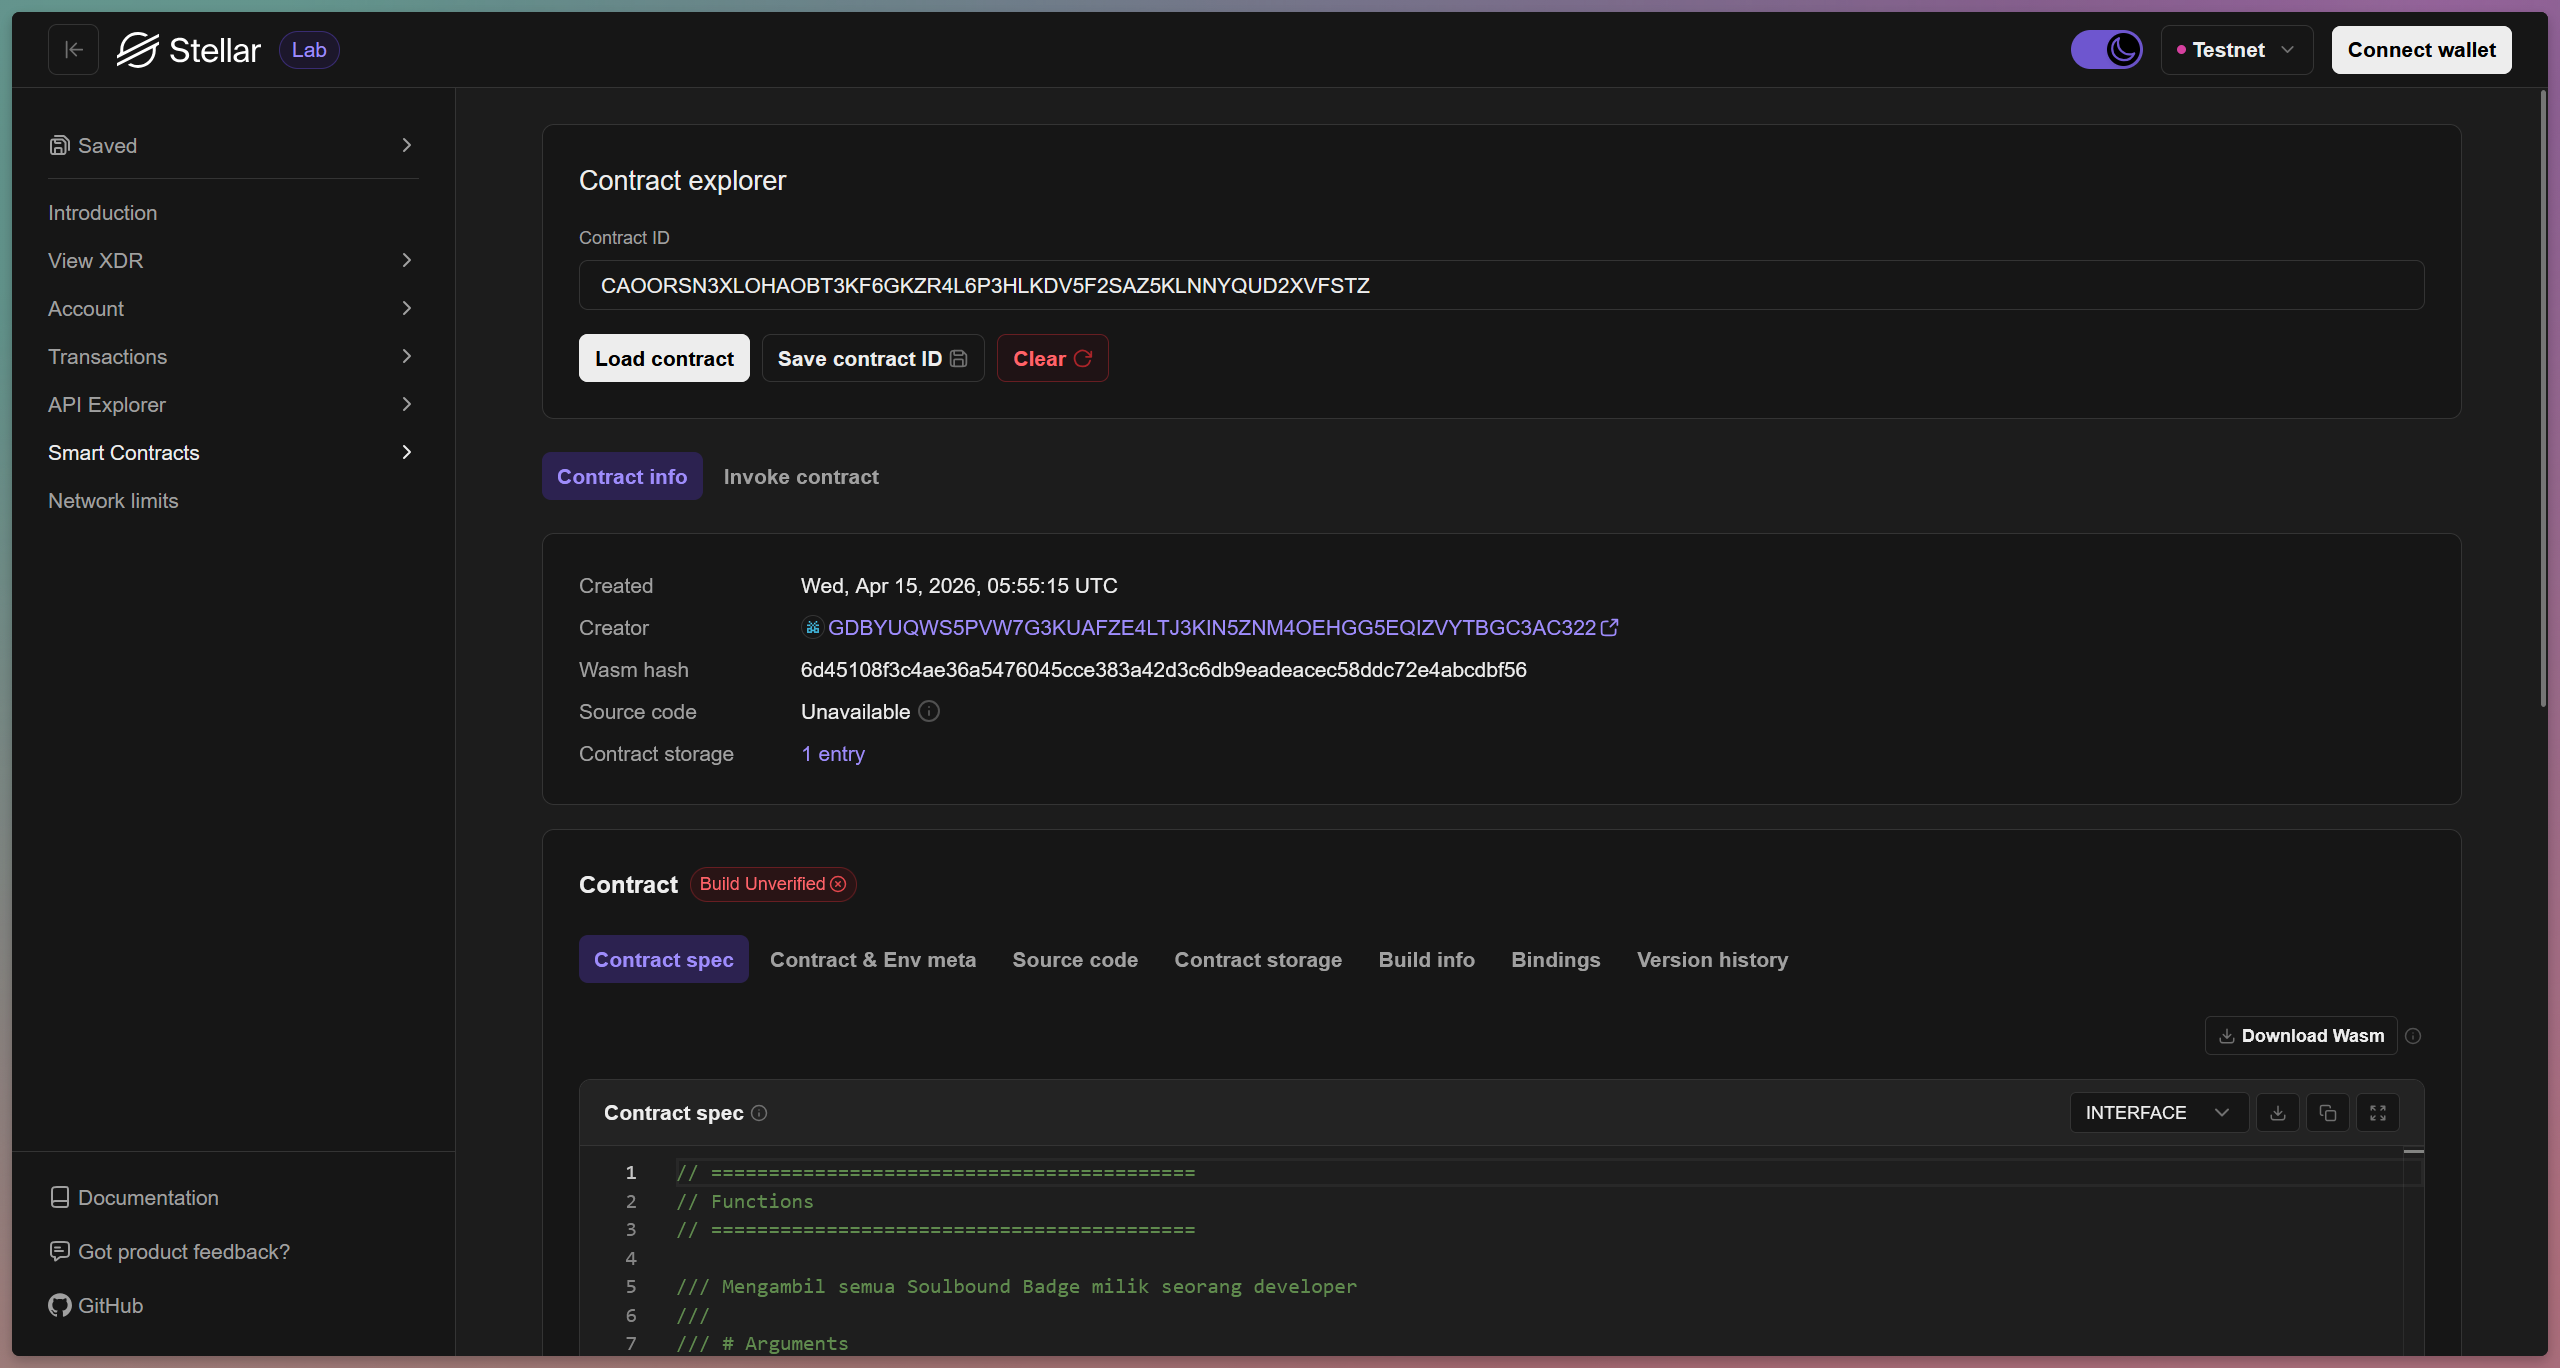
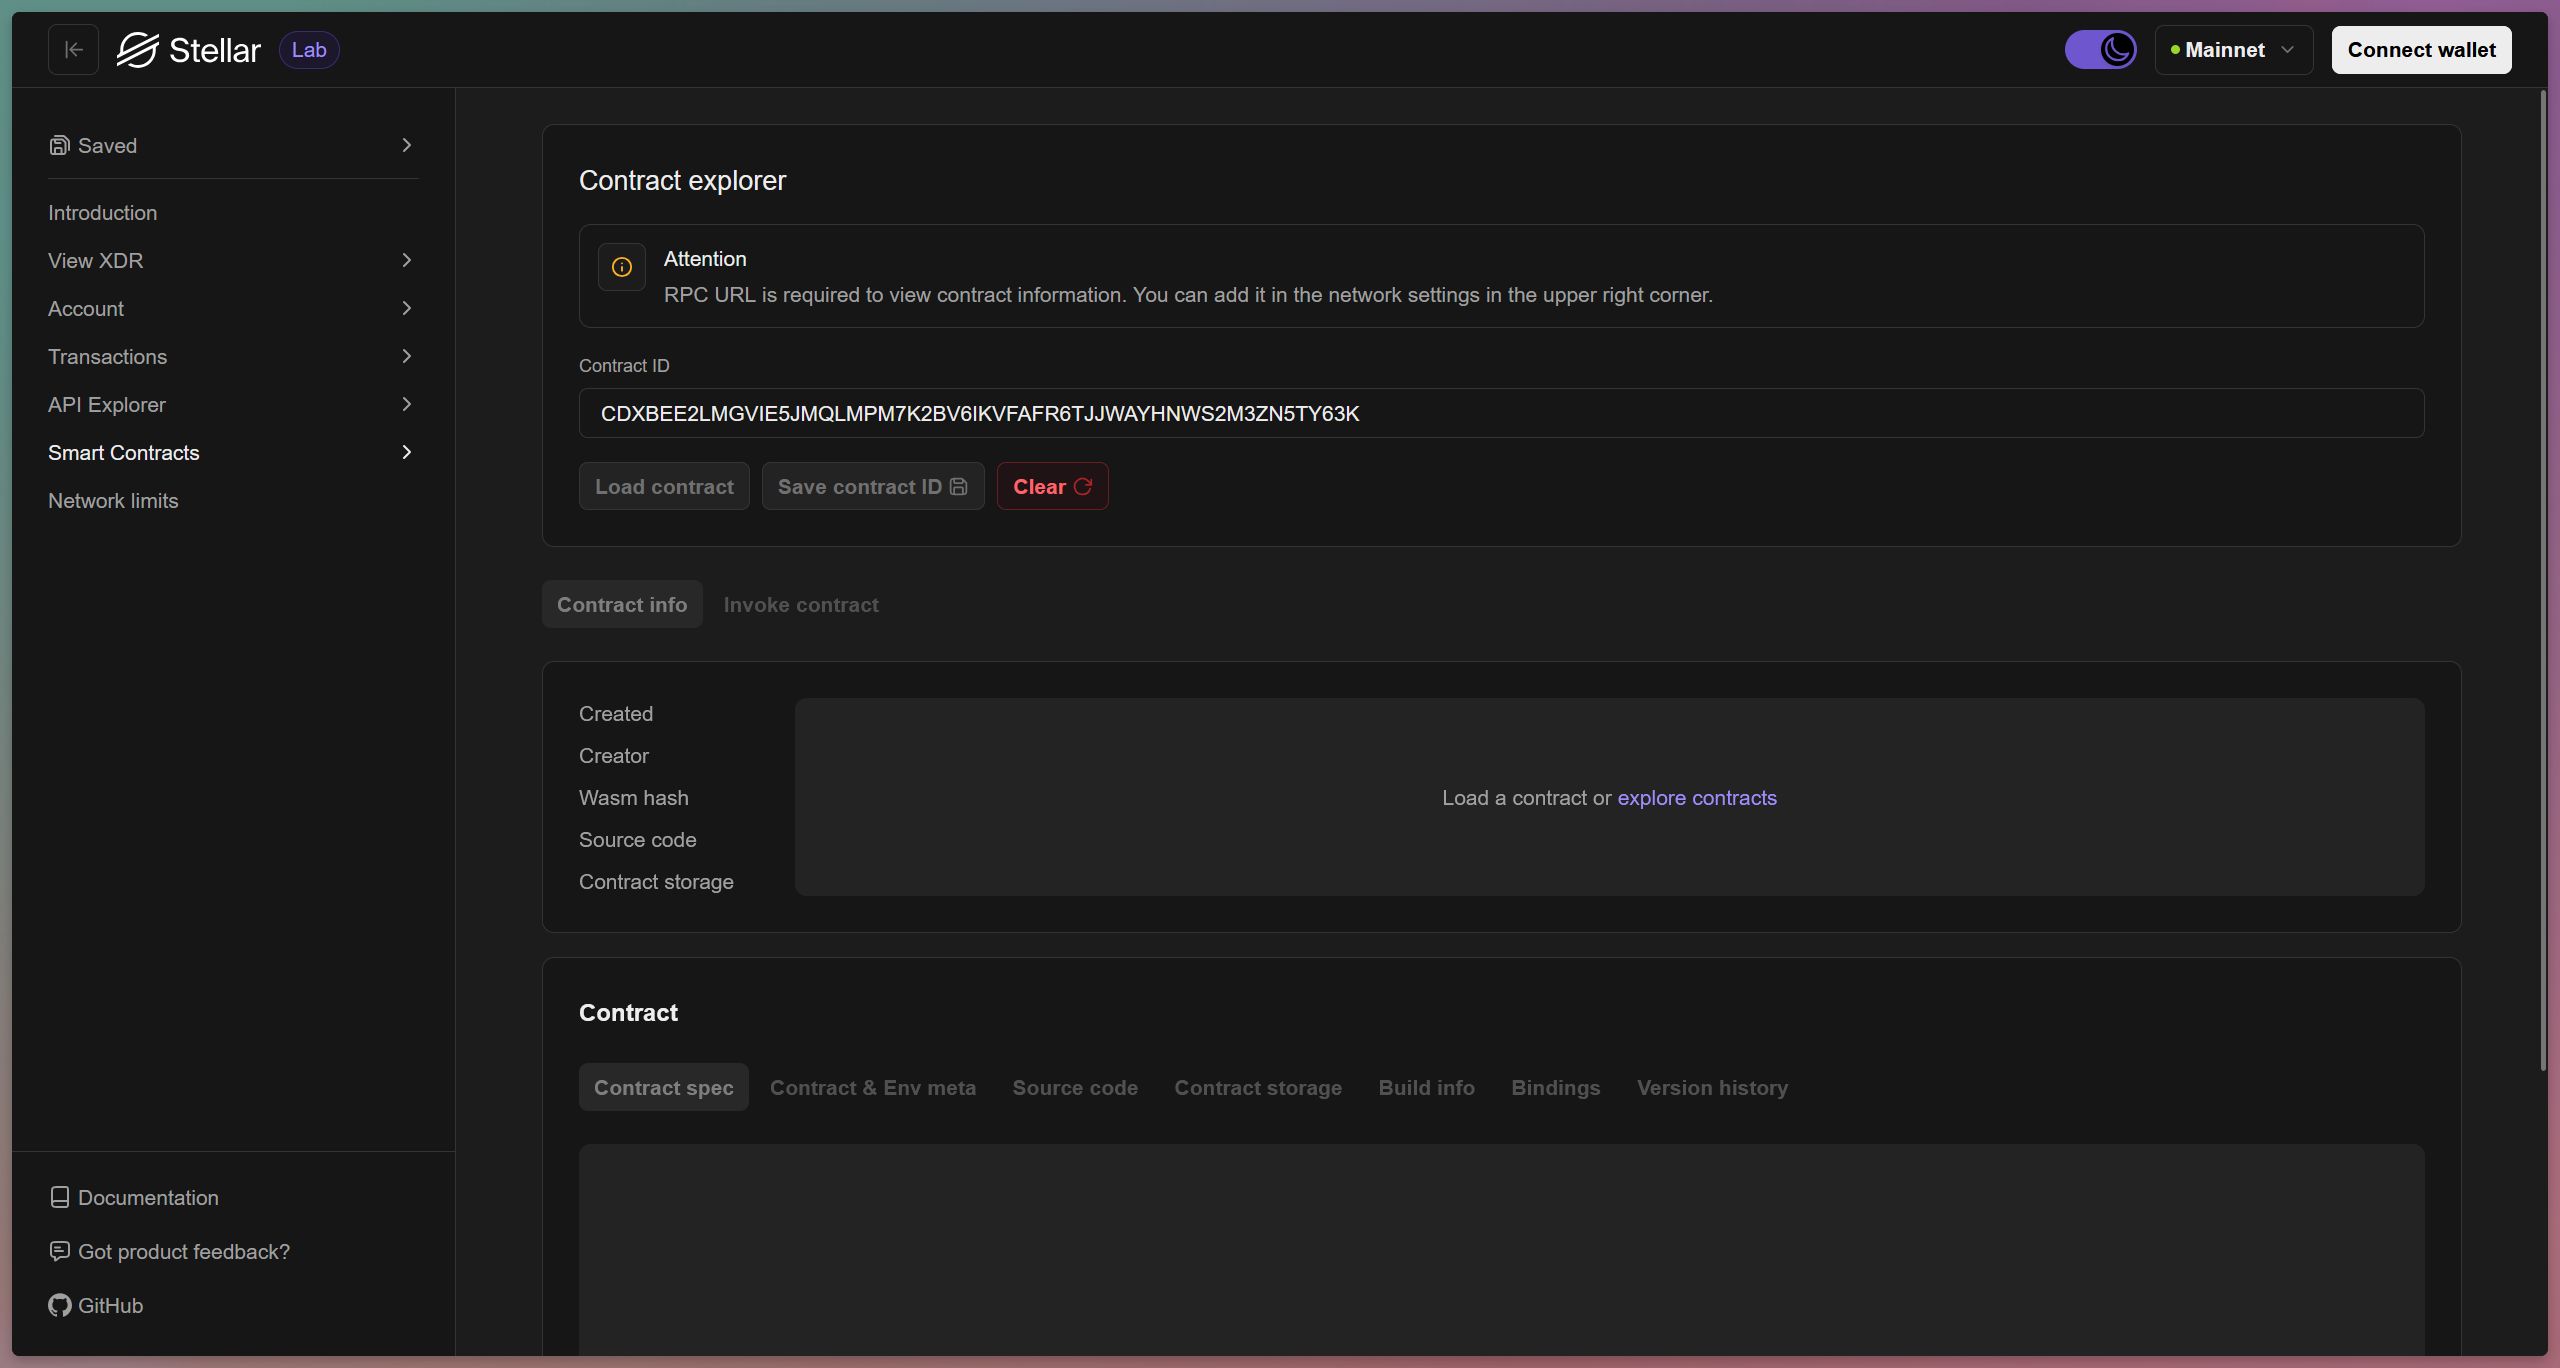
feat: add comprehensive contract test snapshots and document project architecture and commands

diff --git a/README.md b/README.md
@@ -66,9 +66,10 @@ Every completed task generates a **Soulbound Badge** — a permanent, non-transf
 
 | Network | Contract ID |
 | :--- | :--- |
-| Stellar Testnet | `CAOORSN3XLOHAOBT3KF6GKZR4L6P3HLKDV5F2SAZ5KLNNYQUD2XVFSTZ` |
+| Stellar Testnet | `CDXBEE2LMGVIE5JMQLMPM7K2BV6IKVFAFR6TJJWAYHNWS2M3ZN5TY63K` |
 
-You can inspect the contract on [Stellar Expert (Testnet)](https://lab.stellar.org/smart-contracts/contract-explorer?$=network$id=testnet&label=Testnet&horizonUrl=https:////horizon-testnet.stellar.org&rpcUrl=https:////soroban-testnet.stellar.org&passphrase=Test%20SDF%20Network%20/;%20September%202015;&smartContracts$explorer$contractId=CAOORSN3XLOHAOBT3KF6GKZR4L6P3HLKDV5F2SAZ5KLNNYQUD2XVFSTZ;;).
+You can inspect the contract on [Stellar Expert (Mainnet)](https://stellar.expert/explorer/public/tx/f7cb2c4baa6f46a78bc99d6514132822c5cc087e9a465e6350851c73d42ecb27).
+You can inspect the contract on [Stellar Lab (Mainnet)](https://lab.stellar.org/smart-contracts/contract-explorer?$=network$id=mainnet&label=Mainnet&horizonUrl=https:////horizon.stellar.org&rpcUrl=&passphrase=Public%20Global%20Stellar%20Network%20/;%20September%202015;&smartContracts$explorer$contractId=CDXBEE2LMGVIE5JMQLMPM7K2BV6IKVFAFR6TJJWAYHNWS2M3ZN5TY63K;;).
 
 ### Contract Functions
 
